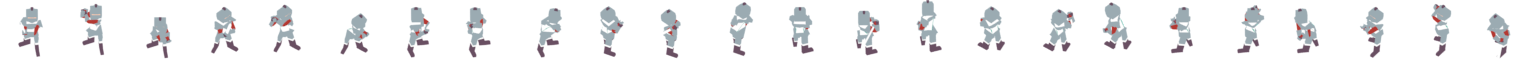
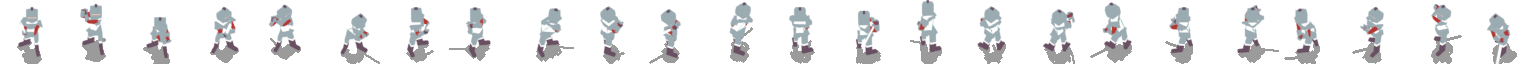
saving

Changed region(s): [[0.0, 0.625, 1.0, 1.0], [0.9375, 0.5625, 0.9688, 0.625], [0.0625, 0.625, 0.0938, 0.6562]]

diff --git a/bleed-client/lib/render/draw/drawCanvas.dart b/bleed-client/lib/render/draw/drawCanvas.dart
@@ -108,15 +108,7 @@ void renderCanvasPlay() {
     // drawCircle(mouseWorldX, mouseWorldY, 10, Colors.black26);
     // setColorWhite();
 
-    if (game.player.characterType.value == CharacterType.Swordsman){
-      setColorWhite();
-      double angle = getAngleBetweenMouseAndPlayer();
-      double mouseDistance = getDistanceBetweenMouseAndPlayer();
-      double d = min(mouseDistance, game.player.attackRange);
-      double vX = adjacent(angle, d);
-      double vY = opposite(angle, d);
-      drawLine(game.player.x, game.player.y, game.player.x + vX, game.player.y + vY);
-    }
+    // drawMouseAim2();
   }
 
   drawSprites();
@@ -167,6 +159,18 @@ void renderCanvasPlay() {
   // }
 
   setColorWhite();
+}
+
+void drawMouseAim2() {
+  if (game.player.characterType.value == CharacterType.Swordsman){
+    setColorWhite();
+    double angle = getAngleBetweenMouseAndPlayer();
+    double mouseDistance = getDistanceBetweenMouseAndPlayer();
+    double d = min(mouseDistance, game.player.attackRange);
+    double vX = adjacent(angle, d);
+    double vY = opposite(angle, d);
+    drawLine(game.player.x, game.player.y, game.player.x + vX, game.player.y + vY);
+  }
 }
 
 void drawAbility() {

diff --git a/bleed-client/lib/render/constants/animations.dart b/bleed-client/lib/render/constants/animations.dart
@@ -23,6 +23,6 @@ class _Archer {
 }
 
 class _Knight {
-  final List<int> striking = [0, 1, 2, 2, 1, 1];
+  final List<int> striking = [0, 1, 2, 2, 2, 2, 2];
 }
 
